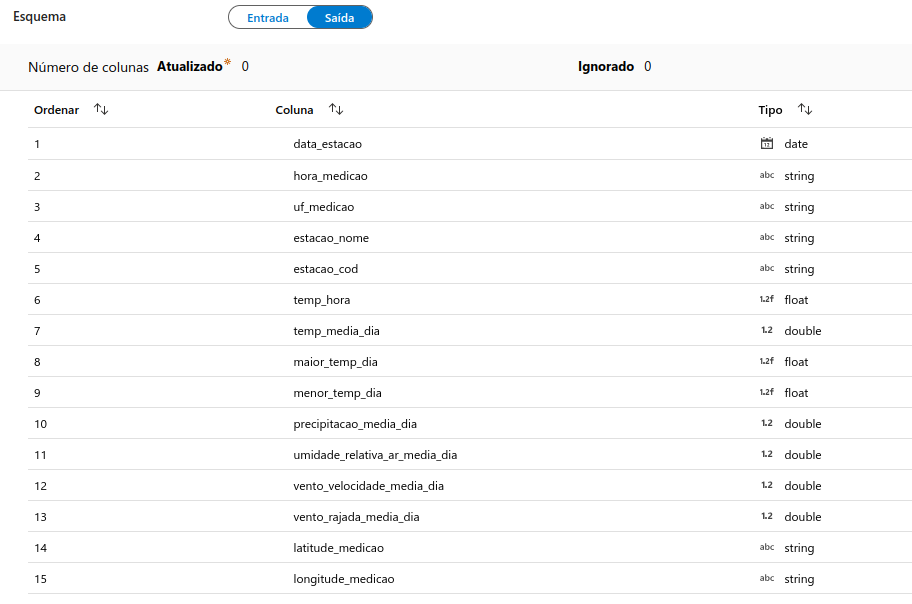
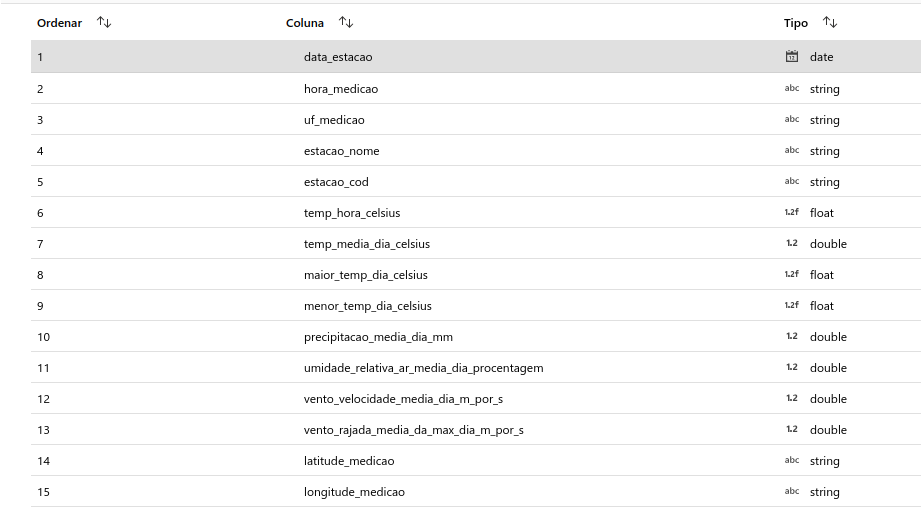
second commit

diff --git a/projeto.md b/projeto.md
@@ -183,15 +183,17 @@ Para que as transformações ocorressem como o esperado, com poucas exceções c
 Com os valores em string a leitura das múltiplas tabelas foram facilitadas, pois ainda que duas tabelas de anos diferntes tivessem as mesmas colunas, apresentavam tipos diferentes dentro do mesmo campo.
 ![Exemplo das tipagens iniciais nas importações.](/imgs/extract/extract_accidentsexample.png)
 
-
 ### 5.3 Transformação
 
 Todo processo foi pensado para transformar com o menor número possível de dados. Ainda que não tenham sido realizados testes de desempenho, a opção foi eliminar colunas e linhas antes das trasnformações.
+
+Em muitas das transformações foram usadas expressões próprias da Azure facilitando um pouco a inclusão de processos lógicos.
 
 #### 5.3.1 Acidentes no sudeste do Brasil dos anos de 2020 e 2021
 
 Os datasets originais estavam separados por anos e carragevam informações que foram consideradas dispensáveis neste projeto.
 Transformações:
+
 1. Seleção das colunas necessárias e renomeamento para facilitar identificação.(Excluídos os atributos que dizem respeito a Polícia como a regional responsável, a delegacia que registrou, a unidade de operação e a finalidade do solo ao redor da rodovia.)
 2. Unificação das linhas, as instâncias de 2020 com as instâncias de 2021.
 3. Filtragem das instâncias que ocorreram apenas dentro da região.
@@ -203,8 +205,47 @@ Transformações:
 
 O dataset de registro do tempo trazem dados dos anos 2000 a 2021 por toda região sudeste.
 Transformações:
+
 1. Seleção das colunas e renomeamento. Foram excluídas as colunas de medição de temperatura de ponto de orvalho, altura do nível do mar em que se encontram as estações e radiação solar.
 2. Filtragem das instâncias. Foram selecionadas somente as linhas que correspondessem aos anos de 2020 e 2021.
 3. Transformação dos valores nulos. Conforme apresentado no site em que o dataset foi obtido, valores iguais a -9999 ou -9999.0 era valores vazios ou nulos que surgiram durante processamento do administrador. Sendo assim, todas as colunas tratadas como string foram verificadas para substituir por string vazia.
 4. Transformação dos tipos. Aos valores que caberiam análises matemáticas foram convertidos em tipo float. Onde os valores eram vazios automaticamente foram preenchidos como NULL.
-5. Renomeação das colunas. Agora atendendo 
+5. Renomeação das colunas nesta etapa atendendo necessidades de pesquisa a respeito do problema.
+6. Produção de dados. Considerando a possibilidade de existência de mais de um registro por dia e a impossibilidade de aproximação das horas do acidente com as horas do registro climático, foram gerados os dados por dia. Assim, os acidentes podem estar associados aos registros climáticos do dia ou do dia mais próximo.
+   Observação: foram considerados registros dentro de um dia os atributos relacionados ao atributo da data do registro. Ainda que muitas instâncias tenham sido registradas à 00:00 de um dia e que possui colunas que fazem menção a uma janela de uma hora anterior, todos esses valores foram considerados ao dia do campo data.
+
+![Interface gráfica do dataflow de registro climático.](/imgs/dataflow/dataflow_weather.png)
+
+#### 5.3.3 Registro de volume nas estradas e lista das praças de pedágio
+
+Os dados de volume nas estradas também estavam separados por anos.
+As transformações realizadas foram:
+
+1. União das instâncias dos dois datasets.
+2. Filtragem das instâncias que estão dentro do território sudeste.
+3. Renomeação das colunas para lowercase seguindo padrão das demais colunas das outras tabelas.
+4. Transformação da coluna praca. O nome da praça na maioria das instâncias contém a rodovia, o quilômetro e o nome da praça. Assim, com uso das funções nativas e Regex a coluna foi fragmentada em 4 outras colunas para facilitar comparação e pesquisa com as demais tabelas.
+
+O dataset com a lista das praças sofreu as seguintes transformações:
+
+1. Remoção da coluna 'data_da_inativacao' pois como dados históricos do referido mês essa informação não será utilizada.
+2. Filtragem das praças que se encontram dentro do território sudeste.
+3. Trasnformação. Inserção de nova coluna 'nome_praca' para ficar mais próxima a coluna praca da tabela de volume de carros e também podronização das colunas concessionária, em lowercase, e rodovia removendo "BR-"dos valores.
+
+![Interface gráfica do dataflow do volume de carros e lista dos pedágios.](/imgs/dataflow/dataflow_trafficvolume.png)
+
+## 6.0 Análise
+
+### 6.1 Qualidade de dados
+
+Envolvendo os 6 datasets, de 4 objetos diferentes, várias incompatibilidades foram surgindo. Embora alguns pontos já tenham sido apresentados ao longo do documento, traço mais alguns apontamentos.
+Todos os dados foram escritos em língua Portuguesa e esse foi um ponto para permanecer a identificação das colunas, assim como das instâncias, no mesmo idioma. Porém, caracteres acentuados e outras configurações nos títulos dos atributos causavam erro de renderização e atrapalhavam a identificação. Logo, quase todos os títulos foram reescritos em caixa baixa no formato snake case e quando em possível redundância, concatenado substantivo que o ajudasse a ser facilmente identificado.
+Nos casos das colunas da tabela sobre o tempo, muitos valores inteiros e fracionados possuem diferentes medidas. A umidade relativa do ar é dada em porcentagem, as temperaturas em graus celsius e outras medidas. A escolha foi permanecer com a identificação original escrevendo ao final do título as medidas representadas.
+
+A decisão de entrar com a maioria dos valores em tipo string se deu após algumas consultas e tentativas de transformações, bem como agregações. Até mesmo conseguir identificar os valores equivocados na tabela. Desenvolvendo a transformação durante as expressões e ao final do processo gerou um melhor resultado.
+
+Muitos dos valores nulos ou faltantes da tabela de acidentes em um primeiro momento podem atrapalhar as análises, mas podem ser resolvidos com a introdução de ferramentas como machine learning.
+A maioria dos dados faltantes se encontram nas colunas "br"(o número da rodovia), "km", "sentido" e "tracado_via". Br e Km por associação com as colunas de "municipio", "uf", "latitude" e "longitude" podem ser rapidamente preenchidas.
+A coluna "tracado_via" com auxílio de outras ferramentas de inteligência artifical, imagens de mapa, "latitude" e "longitude" também pode ser preenchida.
+Já os valores do "sentido" quando envolvem pista dupla ficam mais difíceis de imprimir a realidade. Mas podendo ser preenchida por decisões humanas em estatísticas.
+
